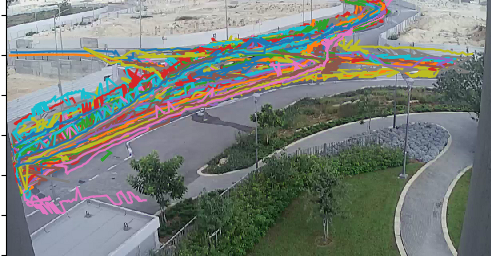
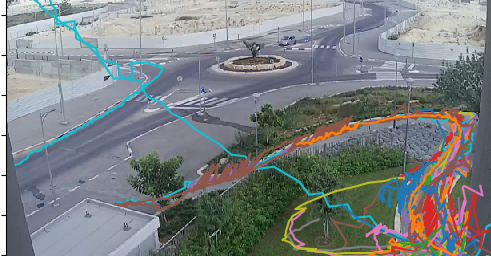
fixed a bug in filter by area

diff --git a/controllerg.py b/controllerg.py
@@ -70,11 +70,11 @@ class Controller:
         logger.debug(f"got filters {self.filters}")
         df = None
         if self.view.active_filters['area'].get():  # if filter by area is selected
-            # print("in area")
+            print("in area")
             area = self.view.area_filter.get()
             x1, y1, x2, y2 = area.split(',')
-            df = self.filter_model.filter_by_area(int(x1), int(y1), int(x2), int(y2))
-            # print("after area")
+            df = self.filter_model.filter_by_area(int(x1), int(x2), int(y1), int(y2))
+            print("after area")
         if self.view.active_filters['hour'].get():  # if filter by time is selected
             # print("in hour")
             t1 = self.view.first_hour_filter.get()
